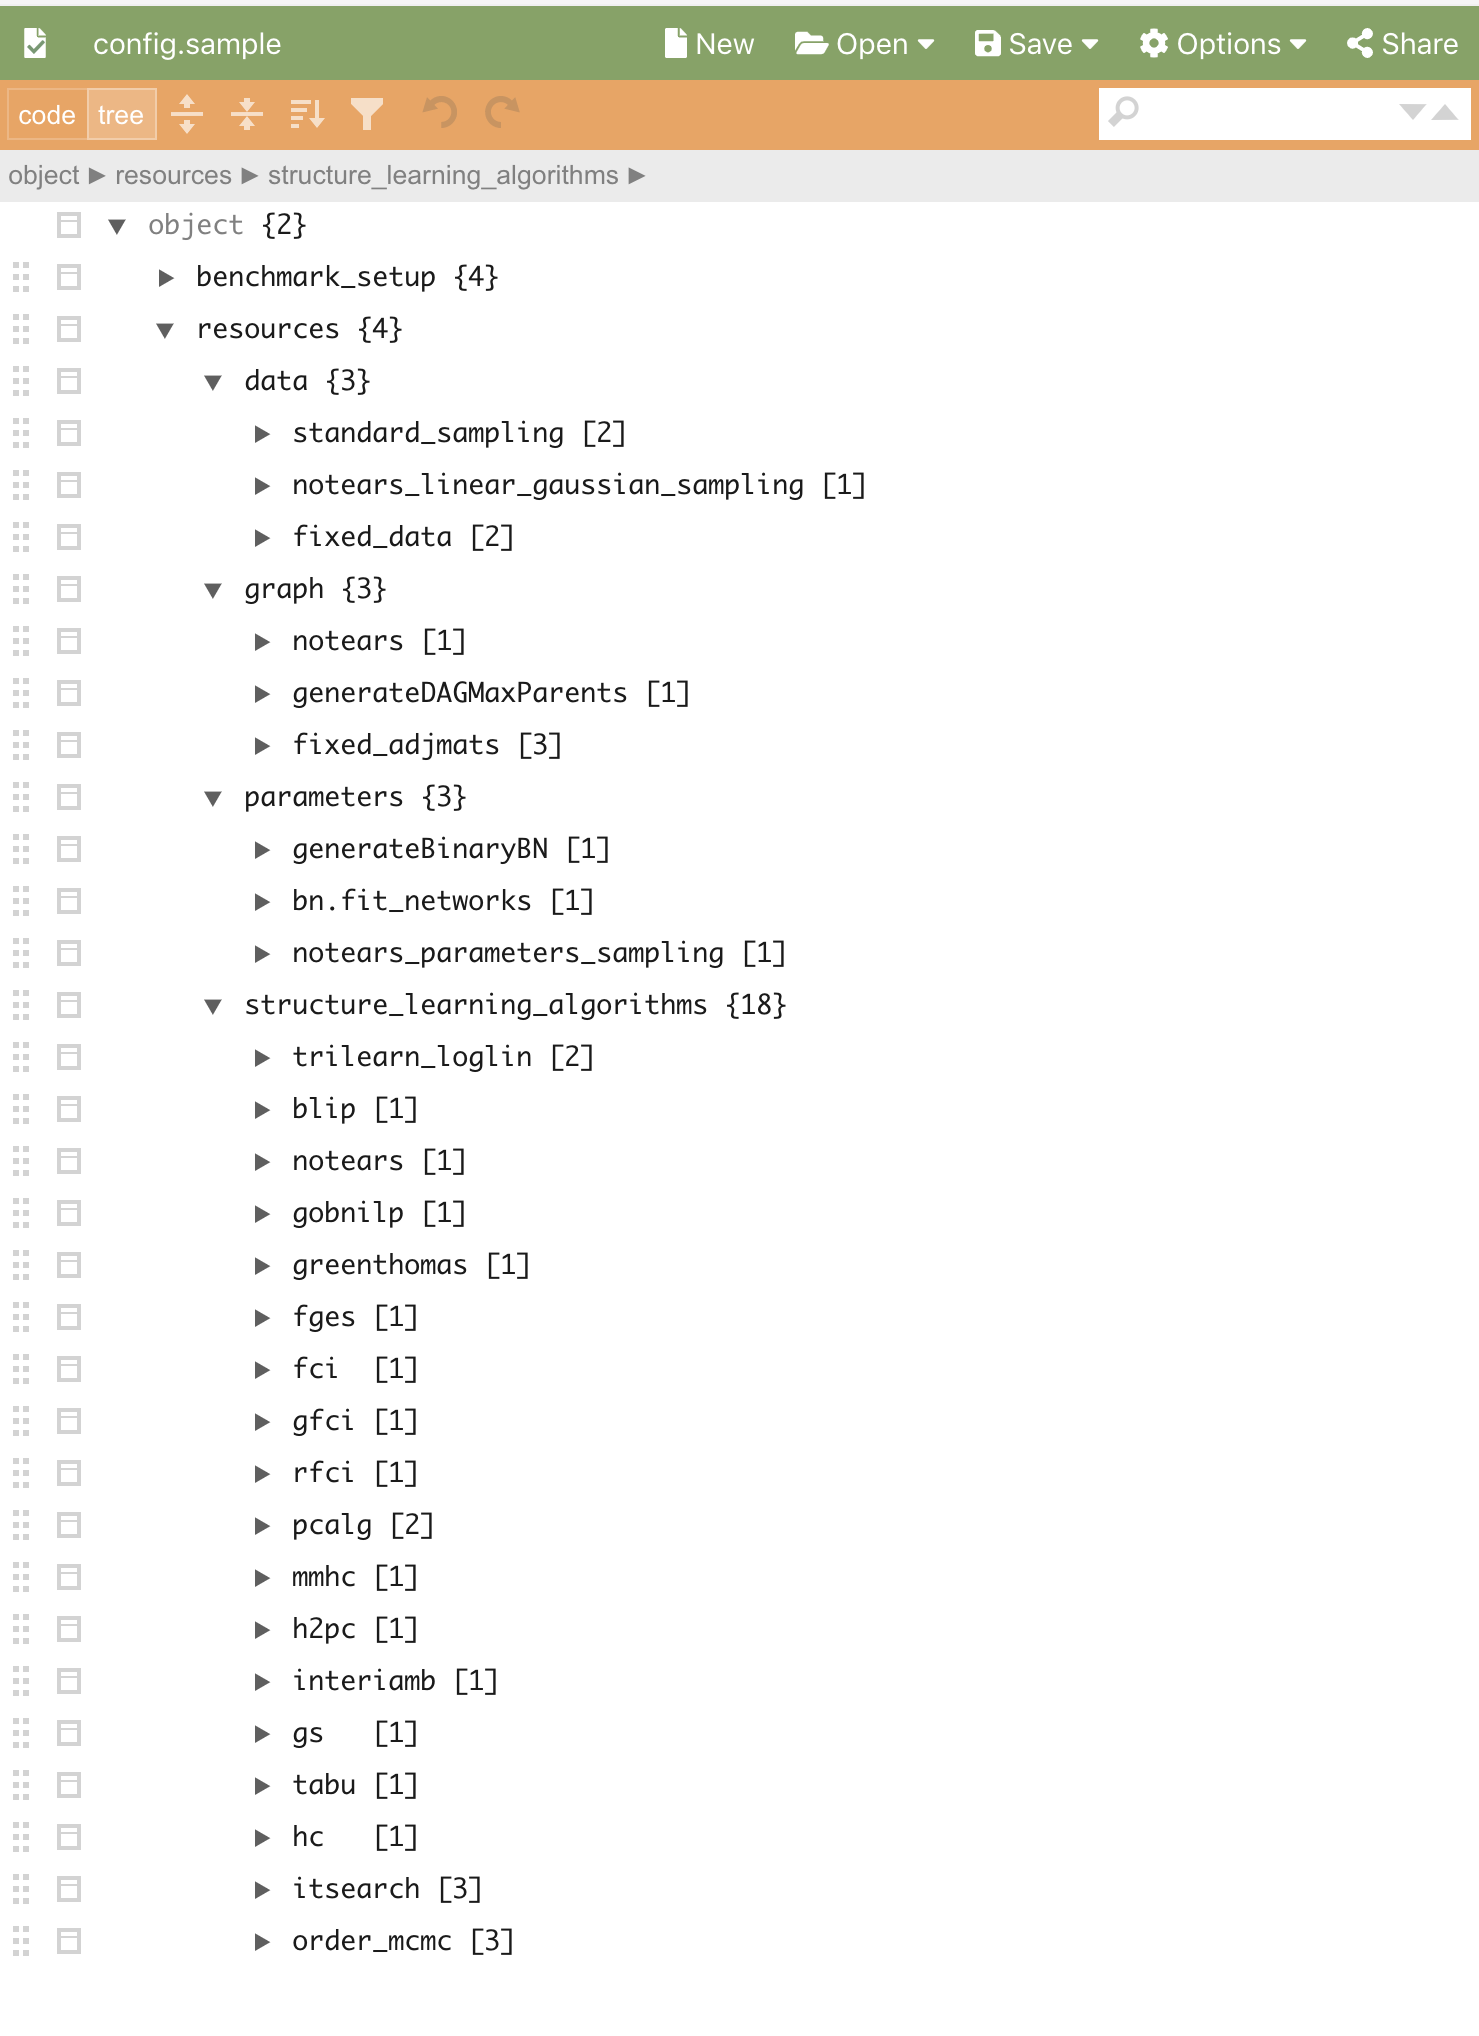
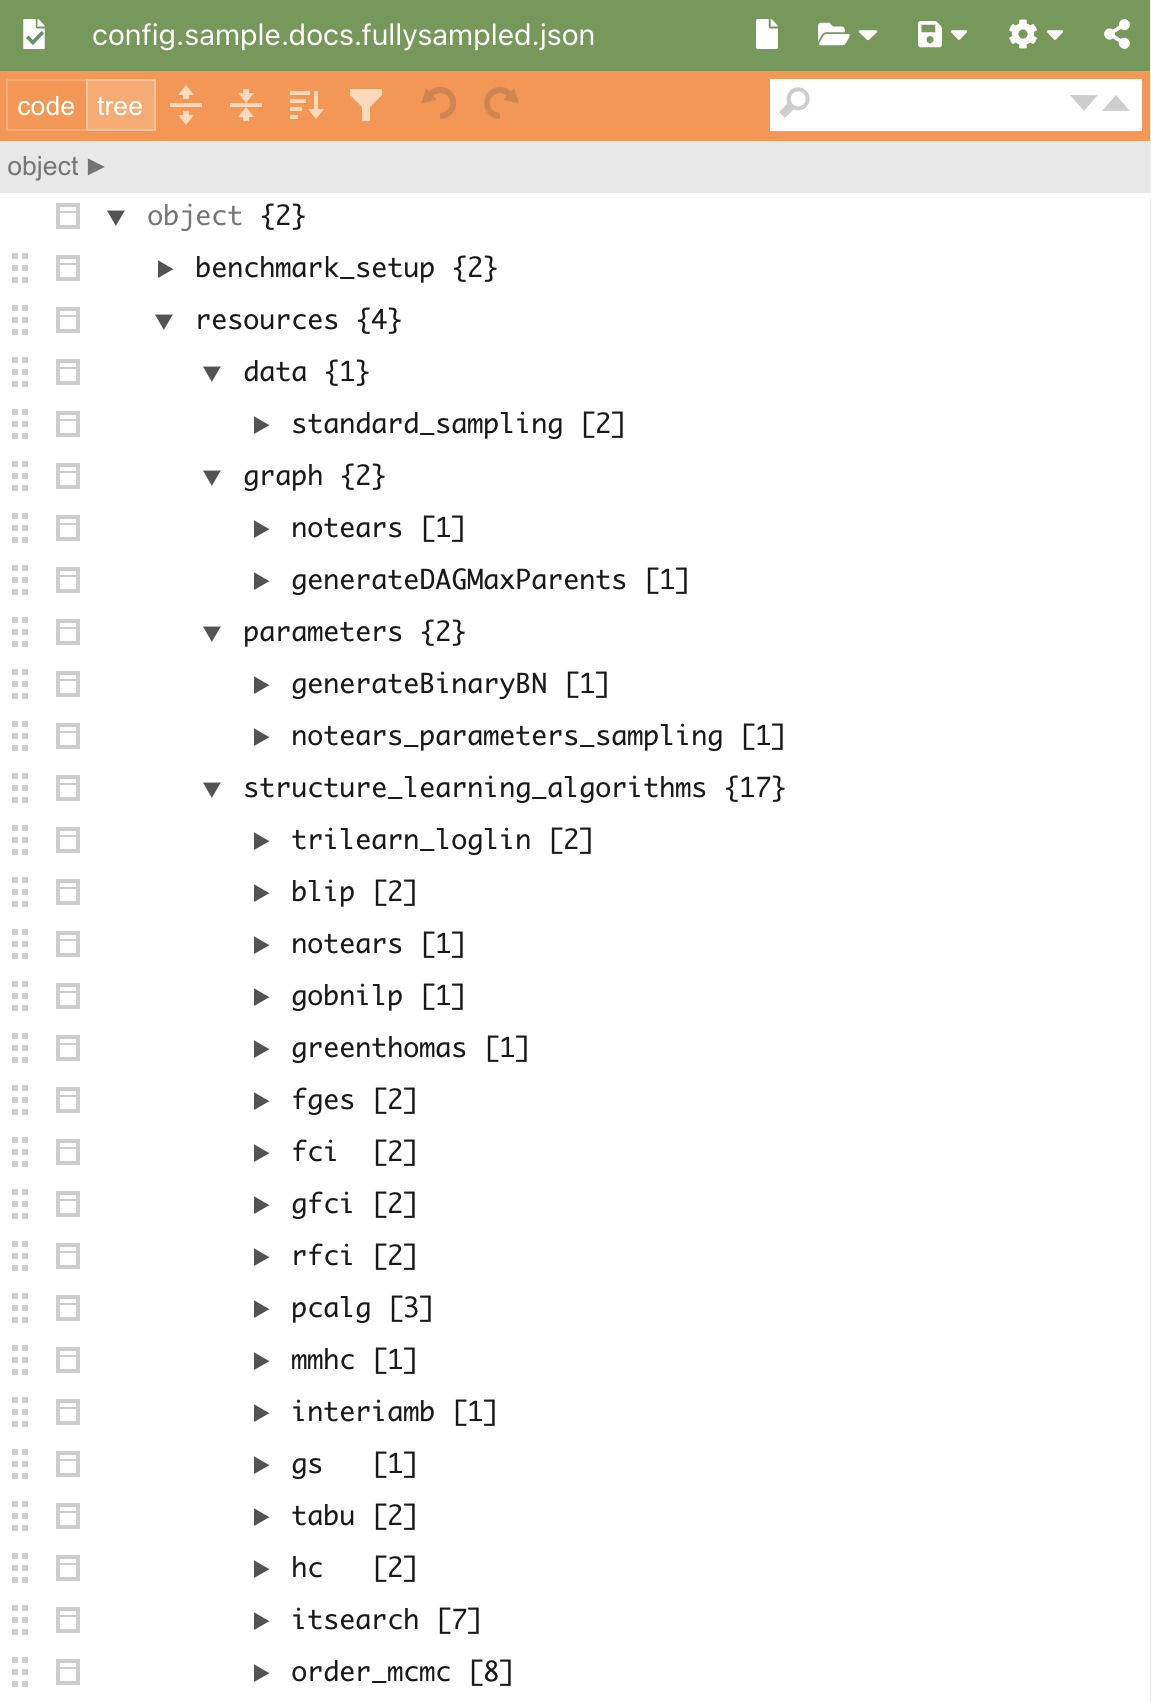
Updated config files figures in docs.

Changed region(s): [[0.0, 0.0, 1.0, 0.9965], [0.3953, 0.8096, 0.4257, 0.8408]]

diff --git a/docs/source/json_overview.rst b/docs/source/json_overview.rst
@@ -2,18 +2,19 @@
 JSON config file
 ##################
 
-This overview is based on the sample config file :download:`config.sample.docs.json <../../config/config.sample.docs.json>`. 
+This overview is based on the sample config file :download:`config.sample.docs.fullysampled.json <../../config/config.sample.docs.fullysampled.json>`. 
 The `JSON schema <json-schema.org>`_ for the config file is found `here <https://github.com/felixleopoldo/benchpress/blob/master/workflow/schemas/docs/config.md>`_.
 The figures are generated using `JSON Editor Online <https://jsoneditoronline.org>`_.
 
 The configuration file consists of two main sections ``benchmark_setup`` and ``resources``, see :numref:`maincats`.
 
 
+
 .. _maincats:
 .. figure:: _static/maincats_exp.png
     :width: 400
 
-    Main sections in :download:`config.sample.docs.json <../../config/config.sample.docs.json>`.
+    Main sections in :download:`config.sample.docs.fullysampled.json <../../config/config.sample.docs.fullysampled.json>`.
 
 * ``resources`` contains the available resources in terms of graphs, parameters, data and structure learning algorithms.
 * ``benchmark_setup`` defines the actual benchmarking setup, where the resourses are references by their corresponding ``id``.
@@ -31,7 +32,7 @@ This defines the benchmark setup in two main sections, see :numref:`benchmark_se
 .. figure:: _static/benchmark_setup.png
     :width: 400
 
-    Expanded ``benchmark_setup`` in :download:`config.sample.docs.json <../../config/config.sample.docs.json>`. 
+    Expanded ``benchmark_setup`` in :download:`config.sample.docs.fullysampled.json <../../config/config.sample.docs.fullysampled.json>`. 
 
 
 
@@ -148,7 +149,7 @@ contain the available models, data, and structure learning algorithms.
 .. figure:: _static/resources.png
     :width: 400
 
-    Expanded ``resources`` in :download:`config.sample.docs.json <../../config/config.sample.docs.json>`. 
+    Expanded ``resources`` in :download:`config.sample.docs.fullysampled.json <../../config/config.sample.docs.fullysampled.json>`. 
 
 
     Each algorithm has a unique id in its own section.
@@ -158,7 +159,7 @@ contain the available models, data, and structure learning algorithms.
 .. figure:: _static/setup.png
     :width: 400
 
-    Expanded ``data`` in :download:`config.sample.docs.json <../../config/config.sample.docs.json>`. 
+    Expanded ``data`` in :download:`config.sample.docs.fullysampled.json <../../config/config.sample.docs.fullysampled.json>`. 
 
 
     Each algorithm has a unique id in its own section.
